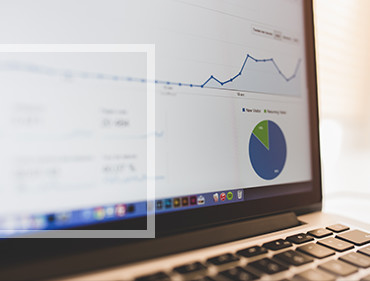
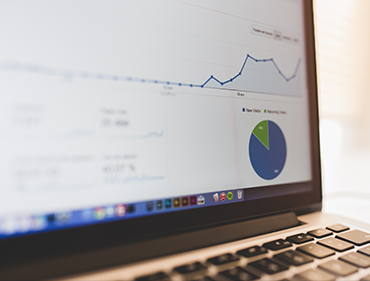
Portfolio - poprawa przezroczystości elementów

diff --git a/homepage.html b/homepage.html
@@ -156,9 +156,9 @@
               <div class="rectangle"></div>
               <div class="text-box">
                 <h3>Project Title</h3>
-                <i class="fa fa-eye" aria-hidden="true"></i>
-                <i class="fa fa-link" aria-hidden="true"></i>
-                <i class="fa fa-share-alt" aria-hidden="true"></i>
+                <a href="#"><i class="fa fa-eye" aria-hidden="true"></i></a>
+                <a href="#"><i class="fa fa-link" aria-hidden="true"></i></a>
+                <a href="#"><i class="fa fa-share-alt" aria-hidden="true"></i></a>
               </div>
             </div>
           </div>
@@ -170,9 +170,9 @@
               <div class="rectangle"></div>
               <div class="text-box">
                 <h3>Project Title</h3>
-                <i class="fa fa-eye" aria-hidden="true"></i>
-                <i class="fa fa-link" aria-hidden="true"></i>
-                <i class="fa fa-share-alt" aria-hidden="true"></i>
+                <a href="#"><i class="fa fa-eye" aria-hidden="true"></i></a>
+                <a href="#"><i class="fa fa-link" aria-hidden="true"></i></a>
+                <a href="#"><i class="fa fa-share-alt" aria-hidden="true"></i></a>
               </div>
             </div>
           </div>
@@ -184,9 +184,9 @@
               <div class="rectangle"></div>
               <div class="text-box">
                 <h3>Project Title</h3>
-                <i class="fa fa-eye" aria-hidden="true"></i>
-                <i class="fa fa-link" aria-hidden="true"></i>
-                <i class="fa fa-share-alt" aria-hidden="true"></i>
+                <a href="#"><i class="fa fa-eye" aria-hidden="true"></i></a>
+                <a href="#"><i class="fa fa-link" aria-hidden="true"></i></a>
+                <a href="#"><i class="fa fa-share-alt" aria-hidden="true"></i></a>
               </div>
             </div>
           </div>
@@ -198,9 +198,9 @@
               <div class="rectangle"></div>
               <div class="text-box">
                 <h3>Project Title</h3>
-                <i class="fa fa-eye" aria-hidden="true"></i>
-                <i class="fa fa-link" aria-hidden="true"></i>
-                <i class="fa fa-share-alt" aria-hidden="true"></i>
+                <a href="#"><i class="fa fa-eye" aria-hidden="true"></i></a>
+                <a href="#"><i class="fa fa-link" aria-hidden="true"></i></a>
+                <a href="#"><i class="fa fa-share-alt" aria-hidden="true"></i></a>
               </div>
             </div>
           </div>
@@ -212,9 +212,9 @@
               <div class="rectangle"></div>
               <div class="text-box">
                 <h3>Project Title</h3>
-                <i class="fa fa-eye" aria-hidden="true"></i>
-                <i class="fa fa-link" aria-hidden="true"></i>
-                <i class="fa fa-share-alt" aria-hidden="true"></i>
+                <a href="#"><i class="fa fa-eye" aria-hidden="true"></i></a>
+                <a href="#"><i class="fa fa-link" aria-hidden="true"></i></a>
+                <a href="#"><i class="fa fa-share-alt" aria-hidden="true"></i></a>
               </div>
             </div>
           </div>
@@ -226,9 +226,9 @@
               <div class="rectangle"></div>
               <div class="text-box">
                 <h3>Project Title</h3>
-                <i class="fa fa-eye" aria-hidden="true"></i>
-                <i class="fa fa-link" aria-hidden="true"></i>
-                <i class="fa fa-share-alt" aria-hidden="true"></i>
+                <a href="#"><i class="fa fa-eye" aria-hidden="true"></i></a>
+                <a href="#"><i class="fa fa-link" aria-hidden="true"></i></a>
+                <a href="#"><i class="fa fa-share-alt" aria-hidden="true"></i></a>
               </div>
             </div>
           </div>
@@ -263,16 +263,19 @@
         <div class="col-sm-12">
           <form>
             <input type="text" placeholder="Name">
-            <input type="email" placeholder="E-mail">
+            <input type="email" placeholder="E-mail" >
             <input type="text-area" placeholder="Message">
-            <input type="submit">
+            <input type="submit" value="Hire me" class="btn">
           </form>
         </div>
       </div>
     </div>
   </section>
   <footer>
-
+    <i class="fa fa-facebook" aria-hidden="true"></i>
+    <i class="fa fa-twitter" aria-hidden="true"></i>
+    <i class="fa fa-linkedin" aria-hidden="true"></i>
+    <i class="fa fa-google-plus" aria-hidden="true"></i>
   </footer>
 </body>
 

diff --git a/assets/css/style.css b/assets/css/style.css
@@ -852,6 +852,8 @@ section {
   color: #fff;
   background: #212121;
   text-decoration: none;
+  -webkit-transition: all 300ms ease-in;
+  transition: all 300ms ease-in;
 }
 .btn:hover,
 .btn:focus {
@@ -866,12 +868,14 @@ section {
   text-decoration: none;
 }
 a {
-  color: #337ab7;
+  color: #e1e1e1;
   text-decoration: none;
+  -webkit-transition: all 300ms ease-in;
+  transition: all 300ms ease-in;
 }
 a:hover,
 a:focus {
-  color: #23527c;
+  color: #fbfbfb;
   text-decoration: underline;
 }
 a:focus {
@@ -1058,13 +1062,22 @@ header .hero .hero-text .btn-invert {
   text-align: left;
 }
 .home #portfolio .overlay {
-  background: #000;
   opacity: 0;
   position: absolute;
   top: 0;
   width: 100%;
   height: 100%;
   color: #fff;
+}
+.home #portfolio .overlay::before {
+  content: "";
+  background: #000;
+  opacity: 0.7;
+  width: 100%;
+  height: 100%;
+  display: block;
+  position: absolute;
+  top: 0;
 }
 .home #portfolio .overlay .rectangle {
   border: 8px solid #e1e1e1;
@@ -1073,6 +1086,7 @@ header .hero .hero-text .btn-invert {
   height: 70%;
   position: relative;
   top: 15%;
+  opacity: 0.7;
 }
 .home #portfolio .overlay .text-box {
   position: relative;
@@ -1110,4 +1124,24 @@ header .hero .hero-text .btn-invert {
 .home #fun-facts .number-description {
   font-size: 30px;
   font-weight: 400;
+}
+footer {
+  background: #212121;
+  color: #fff;
+}
+footer .fa {
+  padding: 5px;
+  border-radius: 50%;
+  border: 2px solid #fff;
+  margin: 0 2px;
+  width: 30px;
+  height: 30px;
+  text-align: center;
+}
+footer .fa.fa-eye {
+  margin-left: 0;
+}
+footer .fa:hover {
+  color: #212121;
+  background: #fff;
 }

diff --git a/assets/less/_sections.less b/assets/less/_sections.less
@@ -167,13 +167,22 @@ header {
       text-align: left;
     }
     .overlay {
-      background: #000;
       opacity: 0;
       position: absolute;
       top: 0;
       width: 100%;
       height: 100%;
       color: #fff;
+      &::before {
+        content: "";
+        background: #000;
+        opacity: 0.7;
+        width: 100%;
+        height: 100%;
+        display: block;
+        position: absolute;
+        top:0;
+      }
 
       .rectangle {
         border: 8px solid @grey;
@@ -182,6 +191,7 @@ header {
         height: 70%;
         position: relative;
         top: 15%;
+        opacity: 0.7;
       }
       .text-box {
         position: relative;
@@ -227,11 +237,27 @@ header {
   }
 
   #contact {
-
   }
 }
 
 footer {
-
+  background: @black;
+  color: #fff;
+  .fa {
+    padding: 5px;
+    border-radius: 50%;
+    border: 2px solid #fff;
+    margin: 0 2px;
+    width: 30px;
+    height: 30px;
+    text-align: center;
+    &.fa-eye {
+      margin-left: 0;
+    }
+    &:hover {
+      color: @black;
+      background: #fff;
+    }
+  }
 }
 

diff --git a/assets/less/_common.less b/assets/less/_common.less
@@ -83,6 +83,7 @@ section {
   color: #fff;
   background: @black;
   text-decoration: none;
+  .transition();
   &:hover, &:focus {
     color: #fff;
   }
@@ -96,10 +97,11 @@ section {
   }
 }
 a {
-  color: #337ab7;
+  color: @grey;
   text-decoration: none;
+  .transition();
   &:hover, &:focus {
-    color: #23527c;
+    color: lighten(@grey, 10%);
     text-decoration: underline;
   }
   &:focus {

diff --git a/assets/js/script.js b/assets/js/script.js
@@ -38,7 +38,7 @@ $(".portfolio-item").matchHeight();
 // portfolio hover
   $('.portfolio-item').hover(
     function(){
-      $(this).find('.overlay').animate({'opacity': '0.7'}, 300);
+      $(this).find('.overlay').animate({'opacity': '1'}, 300);
     },
     function(){
       $(this).find('.overlay').animate({'opacity': '0'}, 300);
